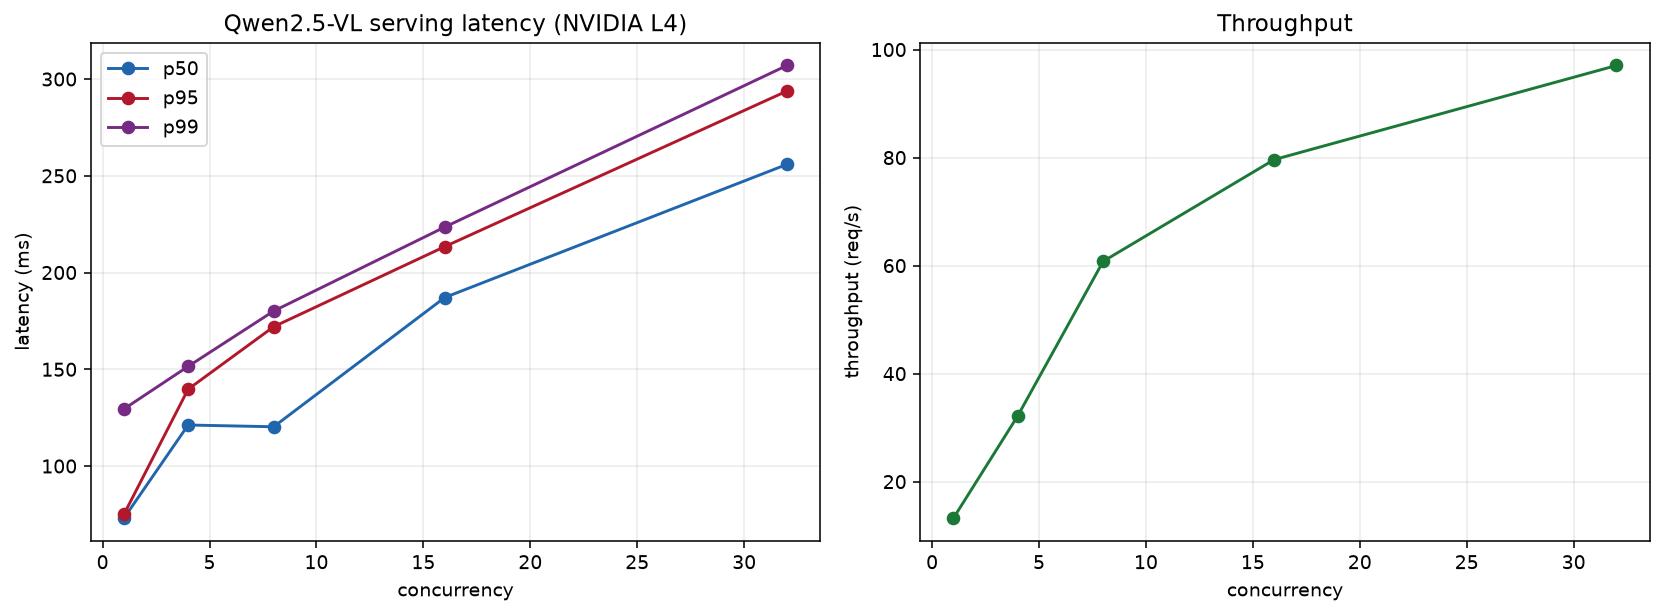
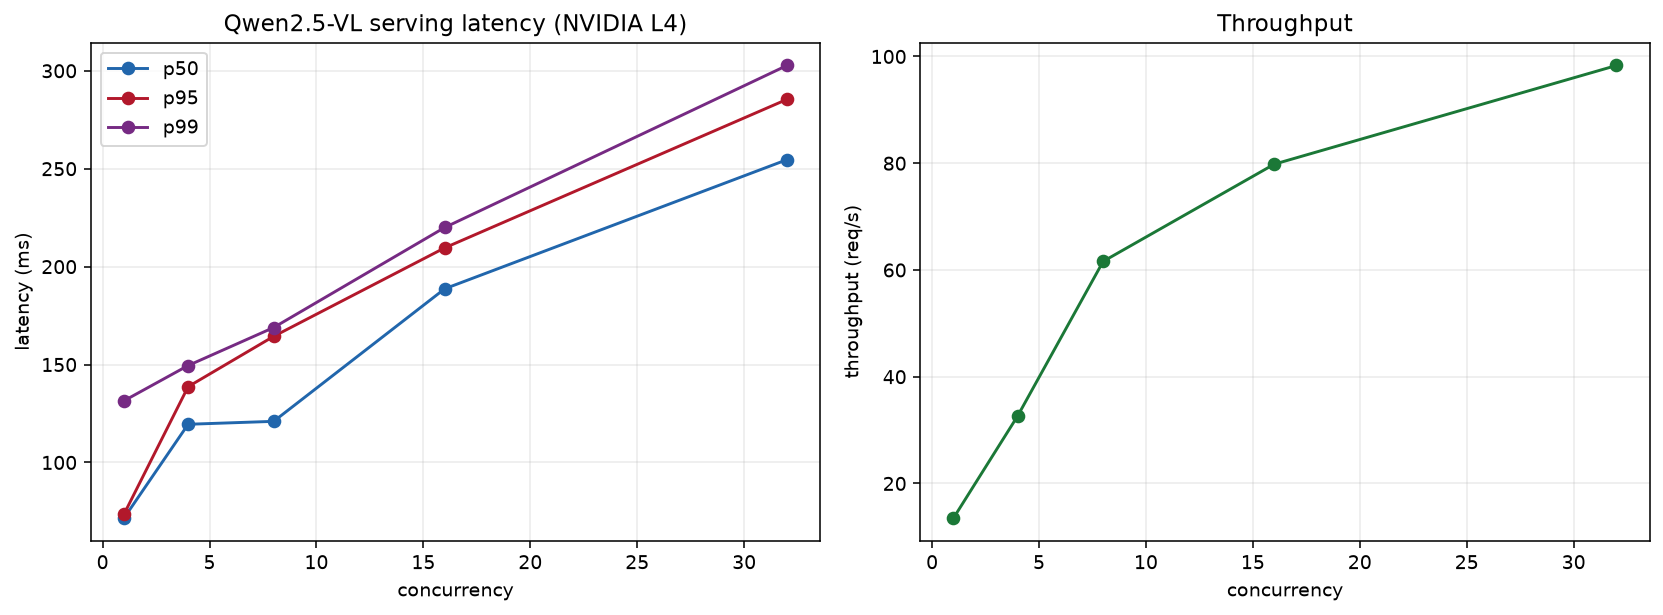
Part C/D results: three-way VLM table (specialist>GPT-4o>Qwen) + serving sweep
Vision verified (white->White, green->Green) and fair-parse applied -> Qwen2.5-VL-7B genuinely
scores 0.433/0.302/0.342: below random, systematically over-calling 'bleached' (underwater
color-cast on pale healthy coral). Three-way: DINOv2 specialist 0.895/0.887/0.046 > GPT-4o
0.805/0.790/0.152 > Qwen 0.433/0.302/0.342. Serving sweep (L4): p50 72->255ms, p99 132->303ms,
14->98 req/s. Recorded in README + DECISIONS (with the honest 'verified not a bug' note) +
docs/eval artifacts. Closes Parts C & D.

Claude-Session: https://claude.ai/code/session_014W7e47yYgJ2UxPKTfgmogX

diff --git a/README.md b/README.md
@@ -195,11 +195,23 @@ hand-written CUDA kernel. Rationale for the non-obvious calls is in [`DECISIONS.
   benchmarked vs it. Measured (**A100-80GB**): **2.14× faster** (0.131 → 0.061 ms/batch-32), **392 GB/s**,
   matches to **7e-7**; preprocessing is **0.8%** of the classify step (DINOv2 fwd 14.1 ms), less e2e.
   Honest: bandwidth-bound, small end-to-end win, real kernel-authoring demo.
-- **Self-hosted VLM baseline** (Part C). **Qwen2.5-VL-7B** served with vLLM (OpenAI-compatible) re-runs the
-  VLM benchmark on the same NOAA test split — a $0, reproducible open-model column **added next to** the
-  GPT-4o one: `DINOv2 specialist vs GPT-4o vs Qwen2.5-VL` on accuracy / macro-F1 / ECE.
-- **vLLM serving sweep** (Part D). Concurrency 1→32 → p50/p95/p99 latency + throughput curve for the
-  self-hosted 7B VLM.
+- **Self-hosted VLM baseline** (Part C). **Qwen2.5-VL-7B** served with vLLM (OpenAI-compatible, L4) re-runs
+  the VLM benchmark on the same NOAA test split — a $0, reproducible open-model column **next to** GPT-4o:
+
+  | model | accuracy | macro-F1 | ECE |
+  |---|---:|---:|---:|
+  | **DINOv2-B specialist** (90M, fine-tuned) | **0.895** | **0.887** | **0.046** |
+  | GPT-4o (zero-shot) | 0.805 | 0.790 | 0.152 |
+  | Qwen2.5-VL-7B (self-hosted, zero-shot) | 0.433 | 0.302 | 0.342 |
+
+  The 90M specialist beats a frontier API model *and* a 7B open VLM — the latter **below random**. Qwen
+  demonstrably *sees* the images (a white/green sanity check passed) but systematically over-calls
+  "bleached", conflating the underwater color-cast on pale healthy coral with bleaching — the domain
+  judgment a fine-tuned specialist has and a generalist doesn't. The sharpest form of "specialists beat
+  generalists on niche vision."
+- **vLLM serving sweep** (Part D, L4). Concurrency 1→32: p50 **72 → 255 ms**, p99 **132 → 303 ms**,
+  throughput **14 → 98 req/s** (saturating) — the serving curve for the self-hosted 7B VLM
+  ([`docs/eval/vllm_serving_sweep.png`](docs/eval/vllm_serving_sweep.png)).
 - **Triton (production path).** [`edge/serving/`](edge/serving/) has the `config.pbtxt` (dynamic batching)
   + `docker-compose.yml`; [`edge/serving/RUNPOD.md`](edge/serving/RUNPOD.md) is the turnkey way to run it on
   a real GPU+Docker box with `perf_analyzer` (~15 min, <$1) — deferred there rather than hacked into Colab,

diff --git a/DECISIONS.md b/DECISIONS.md
@@ -18,6 +18,18 @@ optimizing, keep the comparisons fair, and don't fake infrastructure that can't 
   kernel, so it's not the thing we're improving on. The fair baseline is the naive multi-op sequence a
   typical pipeline actually writes.
 
+## The Qwen result is real (0.43), not a bug — and I verified that
+Qwen2.5-VL-7B scores **0.433 acc / 0.302 macro-F1** — *below random*. That's suspicious for a capable
+7B VLM, so I didn't report it until I ruled out the two ways it could be an artifact:
+- **Vision pipeline:** a white/green sanity probe returned "White" / "Green" — Qwen *is* seeing the
+  images. (This also cleared my own rope-config patch of blame.)
+- **Answer parsing:** the original `max_tokens=1` read only the first token as the A/B answer, which
+  biases models (like Qwen) that emit a leading space/word. I made the parse robust (scan the short
+  answer for the letter; neutral 0.5 when unparseable) — the score barely moved (0.45 → 0.43), which
+  *confirms* it wasn't a parsing artifact.
+So 0.43 is genuine: Qwen sees the coral but systematically over-calls "bleached" (underwater color-cast
+makes pale healthy coral read as bleached to a generalist). Reported with that interpretation, not buried.
+
 ## GPT-4o stays as a column; Qwen2.5-VL is *added*
 - The VLM benchmark's job is to show the fine-tuned specialist beats generalist VLMs. GPT-4o is the
   recognizable frontier baseline; deleting it to swap in Qwen would weaken the story.